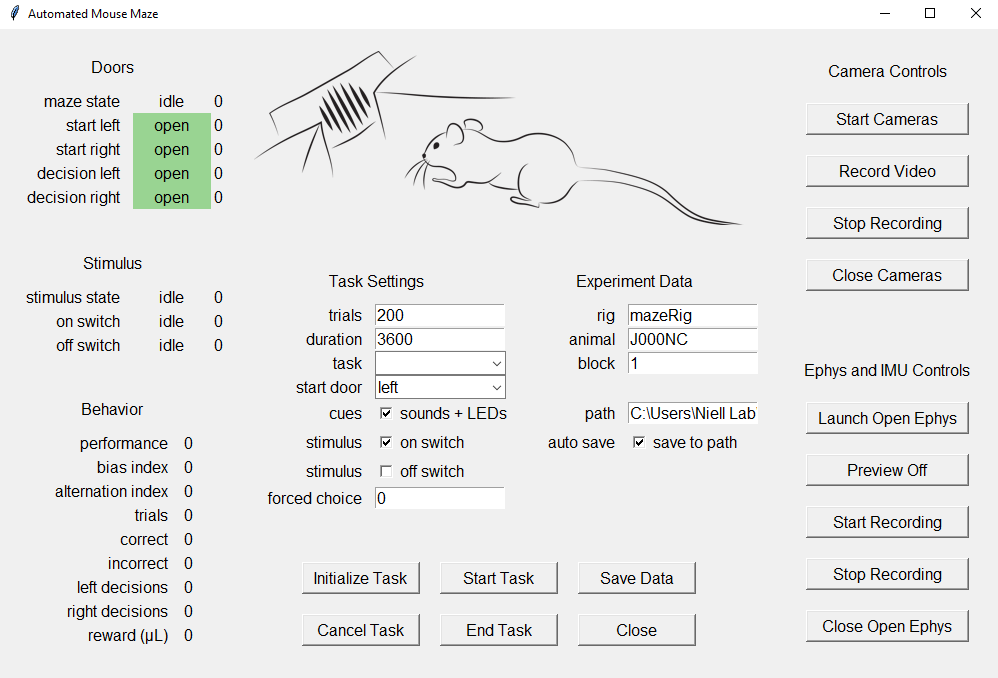
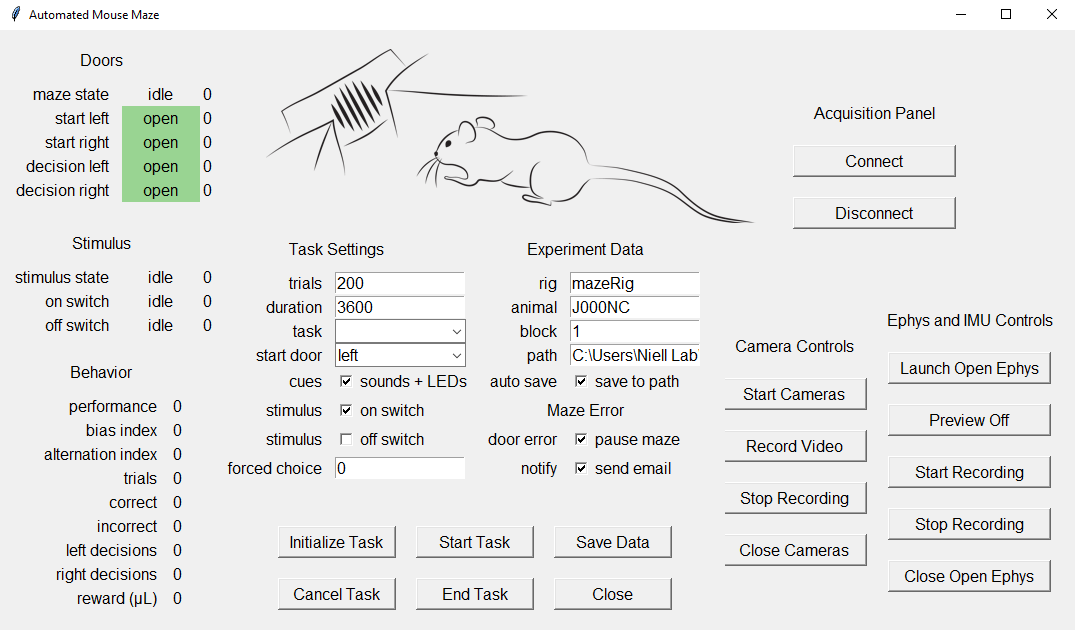
updated maze photos

diff --git a/src/mazeGUI.py b/src/mazeGUI.py
@@ -98,11 +98,13 @@ class mazeGUI:
         frame13 = tk.Frame(frame1, width = 225, height = 290)
         frame13.place(anchor = "c", relx = 0.45, rely = 0.75)
         
-        # Frame 2: Logo
+        # Frame 2: Logo area
         frame2 = tk.Frame(mainWindow, width = 500, height = 175)
         frame2.grid(row = 0, column = 1, sticky = 'news')
-        frame21 = tk.Frame(frame2, width = 500, height = 175)
-        frame21.place(anchor = "c", relx = 0.5, rely = 0.5)
+        
+        # Frame 21: Floating logo
+        frame21 = tk.Frame(mainWindow, width = 500, height = 175)
+        frame21.place(anchor = "c", relx = 0.475, rely = 0.175)
         
         # Frame 3: Main task settings
         frame3 = tk.Frame(self.mainWindow, width = 500, height = 300)
@@ -133,6 +135,7 @@ class mazeGUI:
         self.img = ImageTk.PhotoImage(master = frame21, width = 490, height = 175, image = img)
         logo = tk.Label(frame21, image = self.img)
         logo.place(anchor = "c", relx = 0.5, rely = 0.5)
+        frame21.lift()
         
         # Save data
         self.fileExtension = ".pickle "
